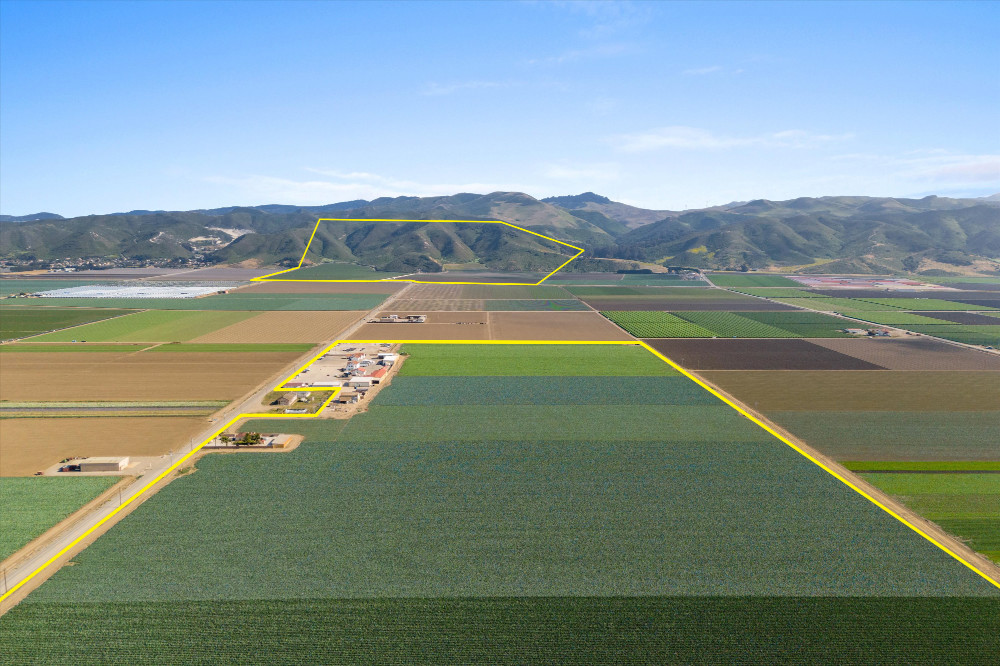
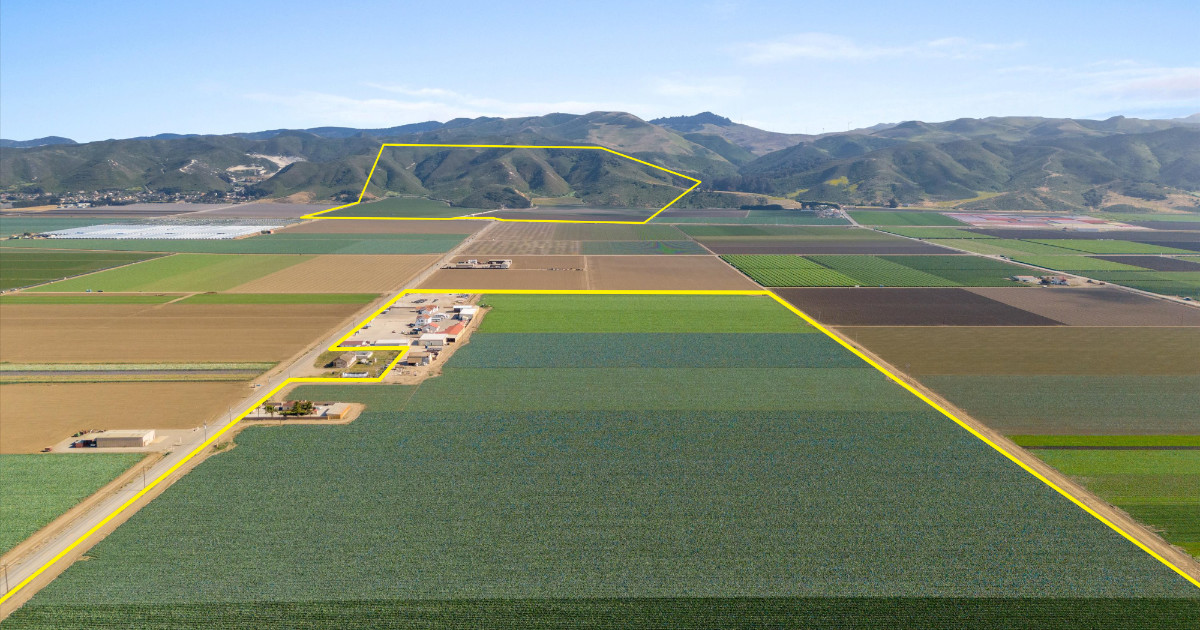
Update OG image to proper 1200x630 dimensions
Replaced FloradaleReduced.jpg with properly sized version (1200x630) for optimal social media link previews. Updated metadata to use absolute URLs with secureUrl and type specification.

Changes:
- Replaced FloradaleReduced.jpg with 1200x630 version
- Updated Open Graph image dimensions to 1200x630
- Added secureUrl and type fields for better compatibility
- Used absolute URLs for all OG/Twitter image references

🤖 Generated with [Claude Code](https://claude.com/claude-code)

diff --git a/app/layout.tsx b/app/layout.tsx
@@ -35,9 +35,11 @@ export const metadata: Metadata = {
     siteName: 'Floradale Properties',
     images: [
       {
-        url: '/FloradaleReduced.jpg',
-        width: 1000,
-        height: 666,
+        url: 'https://floradale.vercel.app/FloradaleReduced.jpg',
+        secureUrl: 'https://floradale.vercel.app/FloradaleReduced.jpg',
+        width: 1200,
+        height: 630,
+        type: 'image/jpeg',
         alt: 'Aerial view of Lompoc Valley Agricultural Estate showing 612 acres of prime farmland',
       },
     ],
@@ -48,7 +50,7 @@ export const metadata: Metadata = {
     card: 'summary_large_image',
     title: 'Lompoc Valley Agricultural Estate',
     description: '612-acre premier agricultural estate in Santa Barbara County. Multiple configurations from $5.5M to $15.6M.',
-    images: ['/FloradaleReduced.jpg'],
+    images: ['https://floradale.vercel.app/FloradaleReduced.jpg'],
   },
   icons: {
     icon: '/favicon.ico',
